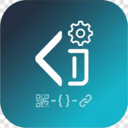
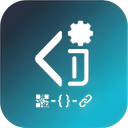
chore: release script

diff --git a/scripts/bump-version.js b/scripts/bump-version.js
@@ -1,0 +1,59 @@
+import { readFileSync, writeFileSync, existsSync } from 'fs';
+import { dirname, join } from 'path';
+import { fileURLToPath } from 'url';
+
+const __filename = fileURLToPath(import.meta.url);
+const __dirname = dirname(__filename);
+const projectRoot = join(__dirname, '..');
+
+// 获取命令行参数
+const versionType = process.argv[2] || 'patch';
+
+if (!['patch', 'minor', 'major'].includes(versionType)) {
+  console.error(`❌ 无效的版本类型: ${versionType}`);
+  console.log('用法: node scripts/bump-version.js [patch|minor|major]');
+  console.log('默认: patch');
+  process.exit(1);
+}
+
+const packagePath = join(projectRoot, 'package.json');
+const manifestPath = join(projectRoot, 'public', 'manifest.json');
+
+const packageJson = JSON.parse(readFileSync(packagePath, 'utf8'));
+const currentVersion = packageJson.version;
+const nextVersion = bumpVersion(currentVersion, versionType);
+
+packageJson.version = nextVersion;
+writeFileSync(packagePath, JSON.stringify(packageJson, null, 2) + '\n');
+
+if (existsSync(manifestPath)) {
+  const manifest = JSON.parse(readFileSync(manifestPath, 'utf8'));
+  manifest.version = nextVersion;
+  writeFileSync(manifestPath, JSON.stringify(manifest, null, 2) + '\n');
+} else {
+  console.warn('⚠️  public/manifest.json 不存在，已仅更新 package.json');
+}
+
+console.log(`🔖 版本已从 ${currentVersion} 升级到 ${nextVersion} (${versionType})`);
+
+function bumpVersion(version, type) {
+  const match = /^([0-9]+)\.([0-9]+)\.([0-9]+)$/.exec(version);
+  if (!match) {
+    throw new Error(`不支持的版本号格式: ${version}. 期望格式: x.y.z`);
+  }
+
+  const major = Number(match[1]);
+  const minor = Number(match[2]);
+  const patch = Number(match[3]);
+
+  switch (type) {
+    case 'major':
+      return `${major + 1}.0.0`;
+    case 'minor':
+      return `${major}.${minor + 1}.0`;
+    case 'patch':
+      return `${major}.${minor}.${patch + 1}`;
+    default:
+      throw new Error(`未知的版本类型: ${type}`);
+  }
+}

diff --git a/package-release.js b/package-release.js
@@ -9,7 +9,26 @@ const projectRoot = join(__dirname, '.');
 
 console.log('🚀 开始打包 iTools 扩展...');
 
-// 1. 确保构建是最新的
+// 0. 检查是否有未提交的代码
+console.log('🔍 检查 Git 状态...');
+const hasUncommittedChanges = checkUncommittedChanges();
+if (!hasUncommittedChanges) {
+  console.error('❌ 没有未 commit 的代码，不允许打包');
+  console.log('💡 请确保有代码修改后再执行打包');
+  process.exit(1);
+}
+console.log('✅ 检测到未提交的代码，继续打包...');
+
+// 1. 自动递增版本号
+console.log('⬆️  递增版本号...');
+try {
+  execSync('node scripts/bump-version.js', { cwd: projectRoot, stdio: 'inherit' });
+} catch (error) {
+  console.error('❌ 版本号递增失败:', error.message);
+  process.exit(1);
+}
+
+// 2. 确保构建是最新的
 console.log('📦 执行生产构建...');
 try {
   execSync('npm run build', { cwd: projectRoot, stdio: 'inherit' });
@@ -170,5 +189,15 @@ function getGitCommit() {
         return execSync('git rev-parse --short HEAD').toString().trim();
     } catch {
         return 'unknown';
+    }
+}
+
+function checkUncommittedChanges() {
+    try {
+        // 检查是否有未提交的修改
+        const statusOutput = execSync('git status --porcelain', { encoding: 'utf8' }).trim();
+        return statusOutput.length > 0;
+    } catch {
+        return false;
     }
 } 